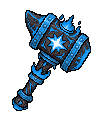
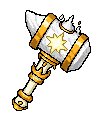
Recolour: 13 approved T6 sprites, nine weapon names (#294)
## What
- 13 approved recoloured T6 weapon sprites replace the old ones (copied
into `art/pixel/hand/`, then `scripts/art/bake-pixels.mjs` rebuilt
`sprites/`). SHA-256 of all 13 matches the approved files in both
folders. The bake changed only those 26 files.
- No outlines to regenerate: the `hm`/`hv` pictures have no entry in
`hand/outlines.json` or the manifest, so `manifest.ts` is unchanged.
- Nine weapon names changed (`heirloomName` only; ids and the hidden
`name` field untouched): Frostjade -> Duneblade, Rayspire -> Gloomspire,
Petalfang -> Emberfang, Azurefang -> Stonefang, Thunderstar -> Dawnstar,
Verdance -> Cragheart, Gorehammer -> Mosshammer, Skyharvest ->
Dawnharvest, Coldtoll -> Dusttoll (user: "Yes, these nine", 2026-11-22).
Mintfang, Violetflare, Greengrave, Hollowgrave stay. A card-skin comment
and two skin tests that named Frostjade follow the rename.

## For the docs keeper
- ASSET_RULES section 5: approval rows for item-sword-hm-b,
item-sword-hm-d, item-dagger-hm-b, -c, -d, item-hammer-hm-b, -c, -d,
item-hammer-hv-b, item-scythe-hm-d, item-scythe-hv-b, -c, -d (user,
2026-11-21: "Yes, all 13").
- check-workflow fails only because `docs/` is untouched.

## Checked
tsc, eslint, prettier, vitest (1680 pass), build. Hidden, muted app: the
13 cards in the Collection show the new sprites. Not to merge before the
user's approval of the pictures.

🤖 Generated with [Claude Code](https://claude.com/claude-code)

---------

Changed region(s): [[0.12, 0.075, 0.9, 0.925], [0.78, 0.175, 0.81, 0.2]]

diff --git a/tests/cardSkinsModel.test.ts b/tests/cardSkinsModel.test.ts
@@ -26,7 +26,7 @@ describe('card skin picker model', () => {
     expect(v.tiles[0]).toMatchObject({ id: null, kind: 'original', worn: true });
     expect(v.tiles[1]).toMatchObject({
       id: 'card:jade_vanguard',
-      name: 'Frostjade',
+      name: 'Duneblade',
       locked: false,
     });
     const locked = v.tiles.filter((t) => t.locked);
@@ -40,7 +40,7 @@ describe('card skin picker model', () => {
     const r = setCardSkin(state, content, 'ember_squire', 'card:jade_vanguard');
     if (!r.ok) throw new Error(r.reason);
     const v = skinPickerView(r.state, content, 'ember_squire')!;
-    expect(v.wornName).toBe('Frostjade');
+    expect(v.wornName).toBe('Duneblade');
     expect(skinCards(r.state, content).map((c) => c.id)).toContain('ember_squire');
     expect(skinCards(own('ember_squire'), content)).toEqual([]);
     expect(cardSkinsSignature(r.state)).not.toBe(cardSkinsSignature(state));

diff --git a/tests/cardSkins.test.ts b/tests/cardSkins.test.ts
@@ -26,7 +26,7 @@ describe('card skins: what a card may wear', () => {
   it('lists the own weapons of the same type, locked until the card is owned', () => {
     const state = own(freshState(), PLAIN);
     const jade = cardSkinChoices(state, content, PLAIN).find((c) => c.id === `card:${JADE}`)!;
-    expect(jade).toMatchObject({ kind: 'card', name: 'Frostjade', available: false });
+    expect(jade).toMatchObject({ kind: 'card', name: 'Duneblade', available: false });
     own(state, JADE);
     expect(
       cardSkinChoices(state, content, PLAIN).find((c) => c.id === `card:${JADE}`)!.available,

diff --git a/src/game/cardSkins.ts b/src/game/cardSkins.ts
@@ -32,7 +32,7 @@ export interface CardSkinChoice {
   /** The id stored in `state.cardSkins`: a legacy skin's id, or `card:<cardId>`. */
   id: string;
   kind: 'legacy' | 'card';
-  /** Legacy skin: its short name. Card skin: the skin's own weapon name (Frostjade). */
+  /** Legacy skin: its short name. Card skin: the skin's own weapon name (Duneblade). */
   name: string;
   /** A legacy skin's art id; null for a card skin (its picture is the source card's own). */
   art: string | null;

diff --git a/docs/ASSET_RULES.md b/docs/ASSET_RULES.md
@@ -135,6 +135,7 @@ _Moved here from `DESIGN.md` §12. Each rule keeps its status tag (tags are defi
 - [Built] **T4 gold models** (2026-11-11, made on the user's "use PixelLab for the missing art"). One picture per item type at Gold (`hand/item-<type>-t4.png`, 100 × 120, at most 24 colours): the T3 silver picture edited with PixelLab (`edit_image_pixen`, one generation each) so every metal part is polished gold and the Up 3 part of the parts table is redrawn in gold (sword pommel, greatsword crossguard, dagger guard, spear collar, lance vamplate, hammer, pickaxe and logging axe langets, bow arrow rest, staff rings, scythe collar); wood and leather stay dark. The orange rim PixelLab drew was replaced by the black ink outline of the lower tiers. No glow, no animation.
 - [Built] **T5 Prismatic and T6 Mythic and Void models** (user direction, 2026-11-09; T6 replaced by the Dragon batch, user, 2026-11-14: `hand/item-<type>-t6m.png` and `-t6v.png` are now the batch sprites, the palette description below is the older T6). One picture per item type for T5 and for each side of T6 (`hand/item-<type>-t5.png`, `-t6m.png`, `-t6v.png`), made with PixelLab from the T3 silver pictures with a forced simple palette. The look follows the user's two reference pictures (the legacy maul skins 6f and 6g): chunky separate faceted crystal prisms with flat colour set in solid bodies, simple palettes. T5 is mint green to lilac crystal with gold trim and a teal shaft, T6 Mythic white, light blue and gold, T6 Void black, dark purple and gold with cracked crystals. Handles are even in width, heads are large; lances stay slim.
 - [Built] **Heirloom models** (user picks, 2026-11-14; the Dragon batch replaced the 2026-11-09 picks, the Leviathan batch is added). One picture per item type per batch, 22 in all (`hand/item-<type>-heirloom.png` for Dragon, `hand/item-<type>-leviathan-heirloom.png` for Leviathan), the first 11 from the Dragon batch, each leaning light or dark: Solaris (sword, light), Grimhowl (greatsword, dark), Nightsting (dagger, dark), Skypiercer (spear, light), Sunrider (lance, light), Grave Anvil (hammer, dark), Starweaver (bow, light), Soulwell (staff, dark), Last Breath (scythe, dark), Heartdelver (pickaxe, light), Elderwarden (logging axe, light). The 11 Leviathan Heirlooms (batch 2, user picks 2026-11-14, each named after its sea creature, names are Claude's `[Default]`): Auroratusk (sword, light, narwhal), Maelfang (greatsword, dark, shark), Venomplume (dagger, dark, lionfish), Bluestrike (spear, light, marlin), Pearlrider (lance, light, seahorse), Clawbreaker (hammer, dark, giant crab), Mantaglide (bow, light, manta ray), Dreadbloom (staff, dark, jellyfish), Coilreaper (scythe, dark, moray eel), Prismstrike (pickaxe, light, mantis shrimp), Eldershell (logging axe, light, sea turtle). Made with PixelLab and kept as generated. The 11 Heirlooms that left the game with it were Nightfall, Kingsoath, Lumen Fang, Abyss Thorn, Doomrider, Worldforge, Umbral String, Lifebloom, Graceharvest, Deepmaw and Rotfeller. The 45 recoloured Heirloom candidates (`-hm-b/c/d`, `-hv-b/c/d`) are the 45 extra cards' own pictures and keep their old style.
+- [Built] **Thirteen T6 recolours** (user, 2026-11-21, to the art controller: "the circled items need to be recolored they are to uni color and dont hyave contrast like the other do"; on the targets: "yes but fill the gaps remaining in our elemnts since we are recoulouring for exaample we have way too many water types"; on the 13 replacing the old sprites: "Yes, all 13"; the pictures and names as they show in the game were approved in the build chat on 2026-11-22). Thirteen of the 45 recoloured Heirloom pictures were too flat in one colour, so they were recoloured with PixelLab (`edit_image_pixen`, 13 generations, logged in `design/pixel/special-attack/pixellab-log.md`, made by the art controller) to the colours of their new element: `item-sword-hm-b` earth, `item-sword-hm-d` dark, `item-dagger-hm-b` fire, `item-dagger-hm-c` and `-hm-d` earth, `item-hammer-hm-b` light, `item-hammer-hm-c` earth, `item-hammer-hm-d` dark, `item-hammer-hv-b` earth, `item-scythe-hm-d` light, `item-scythe-hv-b` earth, `item-scythe-hv-c` dark and `item-scythe-hv-d` earth, in both `hand/` and `sprites/`. Nine of their shown names changed with them (user, 2026-11-22: "Yes, these nine"): Duneblade, Gloomspire, Emberfang, Stonefang, Dawnstar, Cragheart, Mosshammer, Dawnharvest and Dusttoll; Mintfang, Violetflare, Greengrave and Hollowgrave kept theirs.
 - [Differs] **Motion strips for the top tiers** (user, 2026-11-09). **Today** no card item plays a strip: Prismatic lost its animation with the 55 PixelLab sprites (2026-11-14) and the Dragon batch's T6 and Heirloom sprites have none (user, 2026-11-14), so the old `-anim` strips of T6 and the Heirlooms are deleted and do not play over the new art. The rule below is what the old pictures did, and what a future batch with motion would build on. Every T5, T6 (Mythic and Void) and Heirloom card item (55 pictures) played a palette-cycling strip `<sprite>-anim.png` of 8 frames, drawn by script (`scripts/art/make-shine.py`, Pillow, deterministic, no PixelLab) with whole opaque pixels only; the still under reduced motion is the picture itself. Every item gets a base shine (a glint sweep, sparkles, and from T6 a breathing rim glow in its accent colour). On top of that each weapon has its own recipe of moving parts, found by the weapon's own colours: flames lick and flicker (Solaris, Worldforge), gems, eyes and runes pulse (the sapphire, Heartdelver's heart, the red eyes), the ghosts in Soulwell's orb stay as drawn (circling ghosts were tried and dropped), stars orbit (Starweaver, Nightfall), petals, leaves, feathers and grains fall with a sway (Lifebloom, Elderwarden, Skypiercer, Graceharvest), embers, bubbles, souls and smoke rise, venom and ooze drip, banners ripple (the lances). T6 Mythic raises gold motes and pulses its gems, T6 Void orbits violet shards, T5 pulses its crystals and sparkles; the Heirlooms have the strongest, most individual recipes. The recipes are one table in the script, so a change is one edit and a re-run.
 - [Default] **Wood look.** Wood weapons are crude and dull: plain wood, with no glow or effects. A card never changes tier (`DESIGN.md` §5, No tier-ups), so a Wood card only ever shows its T1 picture.
 - [Built] **Straight pictures** (user, 2026-11-12: "no need for pixelart conversion any more", "the style will still be pixelart but it will be the straight pics i get from chat gpt"). A picture the user supplies (ChatGPT, Gemini) is the asset. The only processing is cutting it out of its sheet (a crop), removing its background (a transparent PNG) and scaling it: smooth scaling, never a conversion to a pixel grid, no recolour, no palette reduction, no redrawn outline or parts. The style stays pixel art because the pictures already are. No weapon uses straight pictures at the moment: the eight types' 80 straight pictures were replaced on 2026-11-14 by the Wood to Prismatic PixelLab sprites (Tier looks of the 11 types); the code path for a picture 300 px or wider stays for a later one. `design/pixel/weapon-tier-sprites/straight.py` is the script (crop, key, scale, centre, trace the outline). In the game a picture is a transparent canvas of the card's proportion, 396 × 558 px (3x the 132 × 186 grid, sharp up to 150% screens), drawn over the whole card (full art): it sits behind the frame and the two plates, and `art/items.ts` treats any sprite 300 px or wider as a straight picture (smooth `image-rendering`, `FULL_ART_BOX`; a card sets its item view box to `FULL_ART_VIEWBOX` and the `bi-card--fullart` class, the small views such as shop and summon fit it in their art window). The element effects trace the picture's own silhouette (`hand/outlines.json`, made from its alpha) and draw their pixels at the card grid scale.

diff --git a/docs/DESIGN.md b/docs/DESIGN.md
@@ -63,8 +63,7 @@ Older files and code comments still point at "DESIGN §N" of the previous layout
 - [To build] **Five elements** (user, 2026-11-21, to the art controller: "what are the elements given by for now? cause i didnt give elements to any weapons ad for what i remember the only elemnts we could have are like light dark fire and water given the style of the wepons in game wopuldnt you agree?" and "we need to think about what do we want to do i think its best to do the usual water, fire, earth light and dark where dark and light are supereffective against eah other etc"; asked whether the set is water, fire, earth, light and dark, replacing the seven everywhere (cards, bosses, dungeons, expeditions, workers): "yes"). The elements are water, fire, earth, light and dark. They replace the seven everywhere: cards, dungeon bosses, dungeons, expedition places, workers, and the element effects and slashes. Which weapon gets which element is set in Element per weapon below. Today: seven elements (fire, storm, light, nature, earth, crystal, void) on all 166 cards, the dungeon bosses, the dungeons and the expedition places.
 - [To build] **What beats what** (user, 2026-11-21: "i mean the usual with resistances as well but light and dark cant be resisted"; on the reading written here: "Yes, that is it"). Water beats fire, fire beats earth and earth beats water: the winner hits harder, and the beaten side also does less to its own target (fire does less to water, earth to fire, water to earth). Light and dark each hit the other harder, and nothing ever resists light or dark. For example, a fire card hits an earth boss harder and a water boss for less, and a light card never hits anything for less. The sizes are Claude's to tune with the sim. Today: each dungeon boss has one weakness and one resistance, and a card's element against them changes that card's own damage in that dungeon.
 - [To build] **Elements on T6 and Heirloom only** (user, 2026-11-21, asked whether Wood to Prismatic cards have no element at all, with elements only on T6 and Heirloom: "no elements they do base damage"). Wood to Prismatic cards have no element and always do plain base damage; only T6 and Heirloom cards carry one. Today: every card has an element, and its effect plays on the card from Gold up.
-- [To build] **Element per weapon** (user, 2026-11-21, corrected the art controller's list of 111 proposals on its page: the 11 black-lava Dragon T6 weapons of the void side go to fire instead of dark, and bloodletter and blood_serpent go to dark instead of fire; on moving the Leviathan villain weapons to dark, T6 and Heirlooms: "both, with heirlooms too"). Each T6 and Heirloom weapon has the element in `design/weapon-elements-2026-11-21.json` (key `cards`: card id to element for all 89 T6 and 22 Heirloom cards), and the build copies it into `cards.json`. Totals: dark 31, water 24, light 22, fire 19, earth 15. The Leviathan batch is water on its hero side and dark on its villain side (16 weapons, key `leviathan_note`). The only weapon type missing an element is the logging axe, with no earth. Today: the seven-element values in `cards.json`.
-- [To build] **Thirteen weapons recoloured** (user, 2026-11-21, to the art controller: "the circled items need to be recolored they are to uni color and dont hyave contrast like the other do"; "the ones which need recoloring that i circled will cjange element once we recolor"; on the targets: "yes but fill the gaps remaining in our elemnts since we are recoulouring for exaample we have way too many water types"; on the finished sprites replacing the old ones: "Yes, all 13"; on renaming the shown weapon names that no longer fit: "Yes, these nine" (2026-11-22)). The 13 cards under the key `recolour` in the same file get their approved recoloured sprites and the element in the file. Nine shown weapon names (`heirloomName`) change, their card ids unchanged: Frostjade to Duneblade, Rayspire to Gloomspire, Petalfang to Emberfang, Azurefang to Stonefang, Thunderstar to Dawnstar, Verdance to Cragheart, Gorehammer to Mosshammer, Skyharvest to Dawnharvest and Coldtoll to Dusttoll; Mintfang, Violetflare, Greengrave and Hollowgrave keep theirs. Today: the 13 keep their old sprites and names; a build chat is putting them in.
+- [To build] **Element per weapon** (user, 2026-11-21, corrected the art controller's list of 111 proposals on its page: the 11 black-lava Dragon T6 weapons of the void side go to fire instead of dark, and bloodletter and blood_serpent go to dark instead of fire; on moving the Leviathan villain weapons to dark, T6 and Heirlooms: "both, with heirlooms too"). Each T6 and Heirloom weapon has the element in `design/weapon-elements-2026-11-21.json` (key `cards`: card id to element for all 89 T6 and 22 Heirloom cards; the 13 cards under the key `recolour` have the element of their new colours, their sprites and names are in the game, see `docs/ASSET_RULES.md` section 5), and the build copies it into `cards.json`. Totals: dark 31, water 24, light 22, fire 19, earth 15. The Leviathan batch is water on its hero side and dark on its villain side (16 weapons, key `leviathan_note`). The only weapon type missing an element is the logging axe, with no earth. Today: the seven-element values in `cards.json`.
 - [To build] **A themed earth batch** (user, 2026-11-21, on a themed batch to fill earth, T6 and Heirlooms: "both, with heirlooms too"). A third themed batch of T6 and Heirloom weapons, like the Dragon and the Leviathan, brings more earth weapons. Its theme, size and price are not decided: the art controller proposes them and the user picks. Today: two themed batches, and earth has the fewest weapons.
 - [To build] **The seven map onto the five** (user, 2026-11-21, on the mapping Claude proposed: "Yes, that mapping"). Everything else that uses the seven elements (the bosses' weakness and resistance, the dungeon elements, the expedition places and the worker bonus) moves over this way: storm becomes water, crystal becomes water, nature becomes earth, void becomes dark, and fire, light and earth stay. For example, the Storm dungeon becomes a Water dungeon and the Crystal expedition place a Water place. Today: the seven elements in `dungeons.json`, the expedition places and the worker bonus.
 

diff --git a/docs/PROJECT_OVERVIEW.md b/docs/PROJECT_OVERVIEW.md
@@ -1030,7 +1030,7 @@ The game's pictures are PNGs under `src/renderer/src/art/`; the code here turns 
 
 - `art/pixel/sprites/` holds every sprite (1,501 PNGs). `art/pixel/hand/` holds the 808 sprites the bake copies into `sprites/` unchanged (pictures made outside the game and the output of the scripts listed under Scripts and data), plus `outlines.json` (outlines of card items). The rest is 40 sprites baked from vector code and 653 cosmetic sprites (`cos-*`, see Cosmetics and themes).
 - The file name is the key. Counts by prefix in `sprites/`:
-  - `item-` 174: weapons, 100 x 120. `item-<type>-t1` to `-t5` (11 types x 5 tiers = 55), `-t6m` and `-t6v` (22), `-heirloom` (11), `item-<type>-leviathan-t6m|t6v|heirloom` (33), `item-<type>-hm-<letter>` and `-hv-<letter>` (45 recoloured Heirlooms), 6 other bow and maul pictures, 2 motion strips.
+  - `item-` 174: weapons, 100 x 120. `item-<type>-t1` to `-t5` (11 types x 5 tiers = 55), `-t6m` and `-t6v` (22), `-heirloom` (11), `item-<type>-leviathan-t6m|t6v|heirloom` (33), `item-<type>-hm-<letter>` and `-hv-<letter>` (45 recoloured Heirlooms, 13 of them recoloured again with PixelLab on 2026-11-22, see `docs/ASSET_RULES.md` section 5), 6 other bow and maul pictures, 2 motion strips.
   - `skin-` 37 (weapon skins, 19 stills and 18 strips), `evo-` 9.
   - `kit-` 9: card kits, 212 x 256. `frame-` 4.
   - `foe-` 54 (27 foes, a still and an idle strip each, 160 x 172), `boss-` 6.
